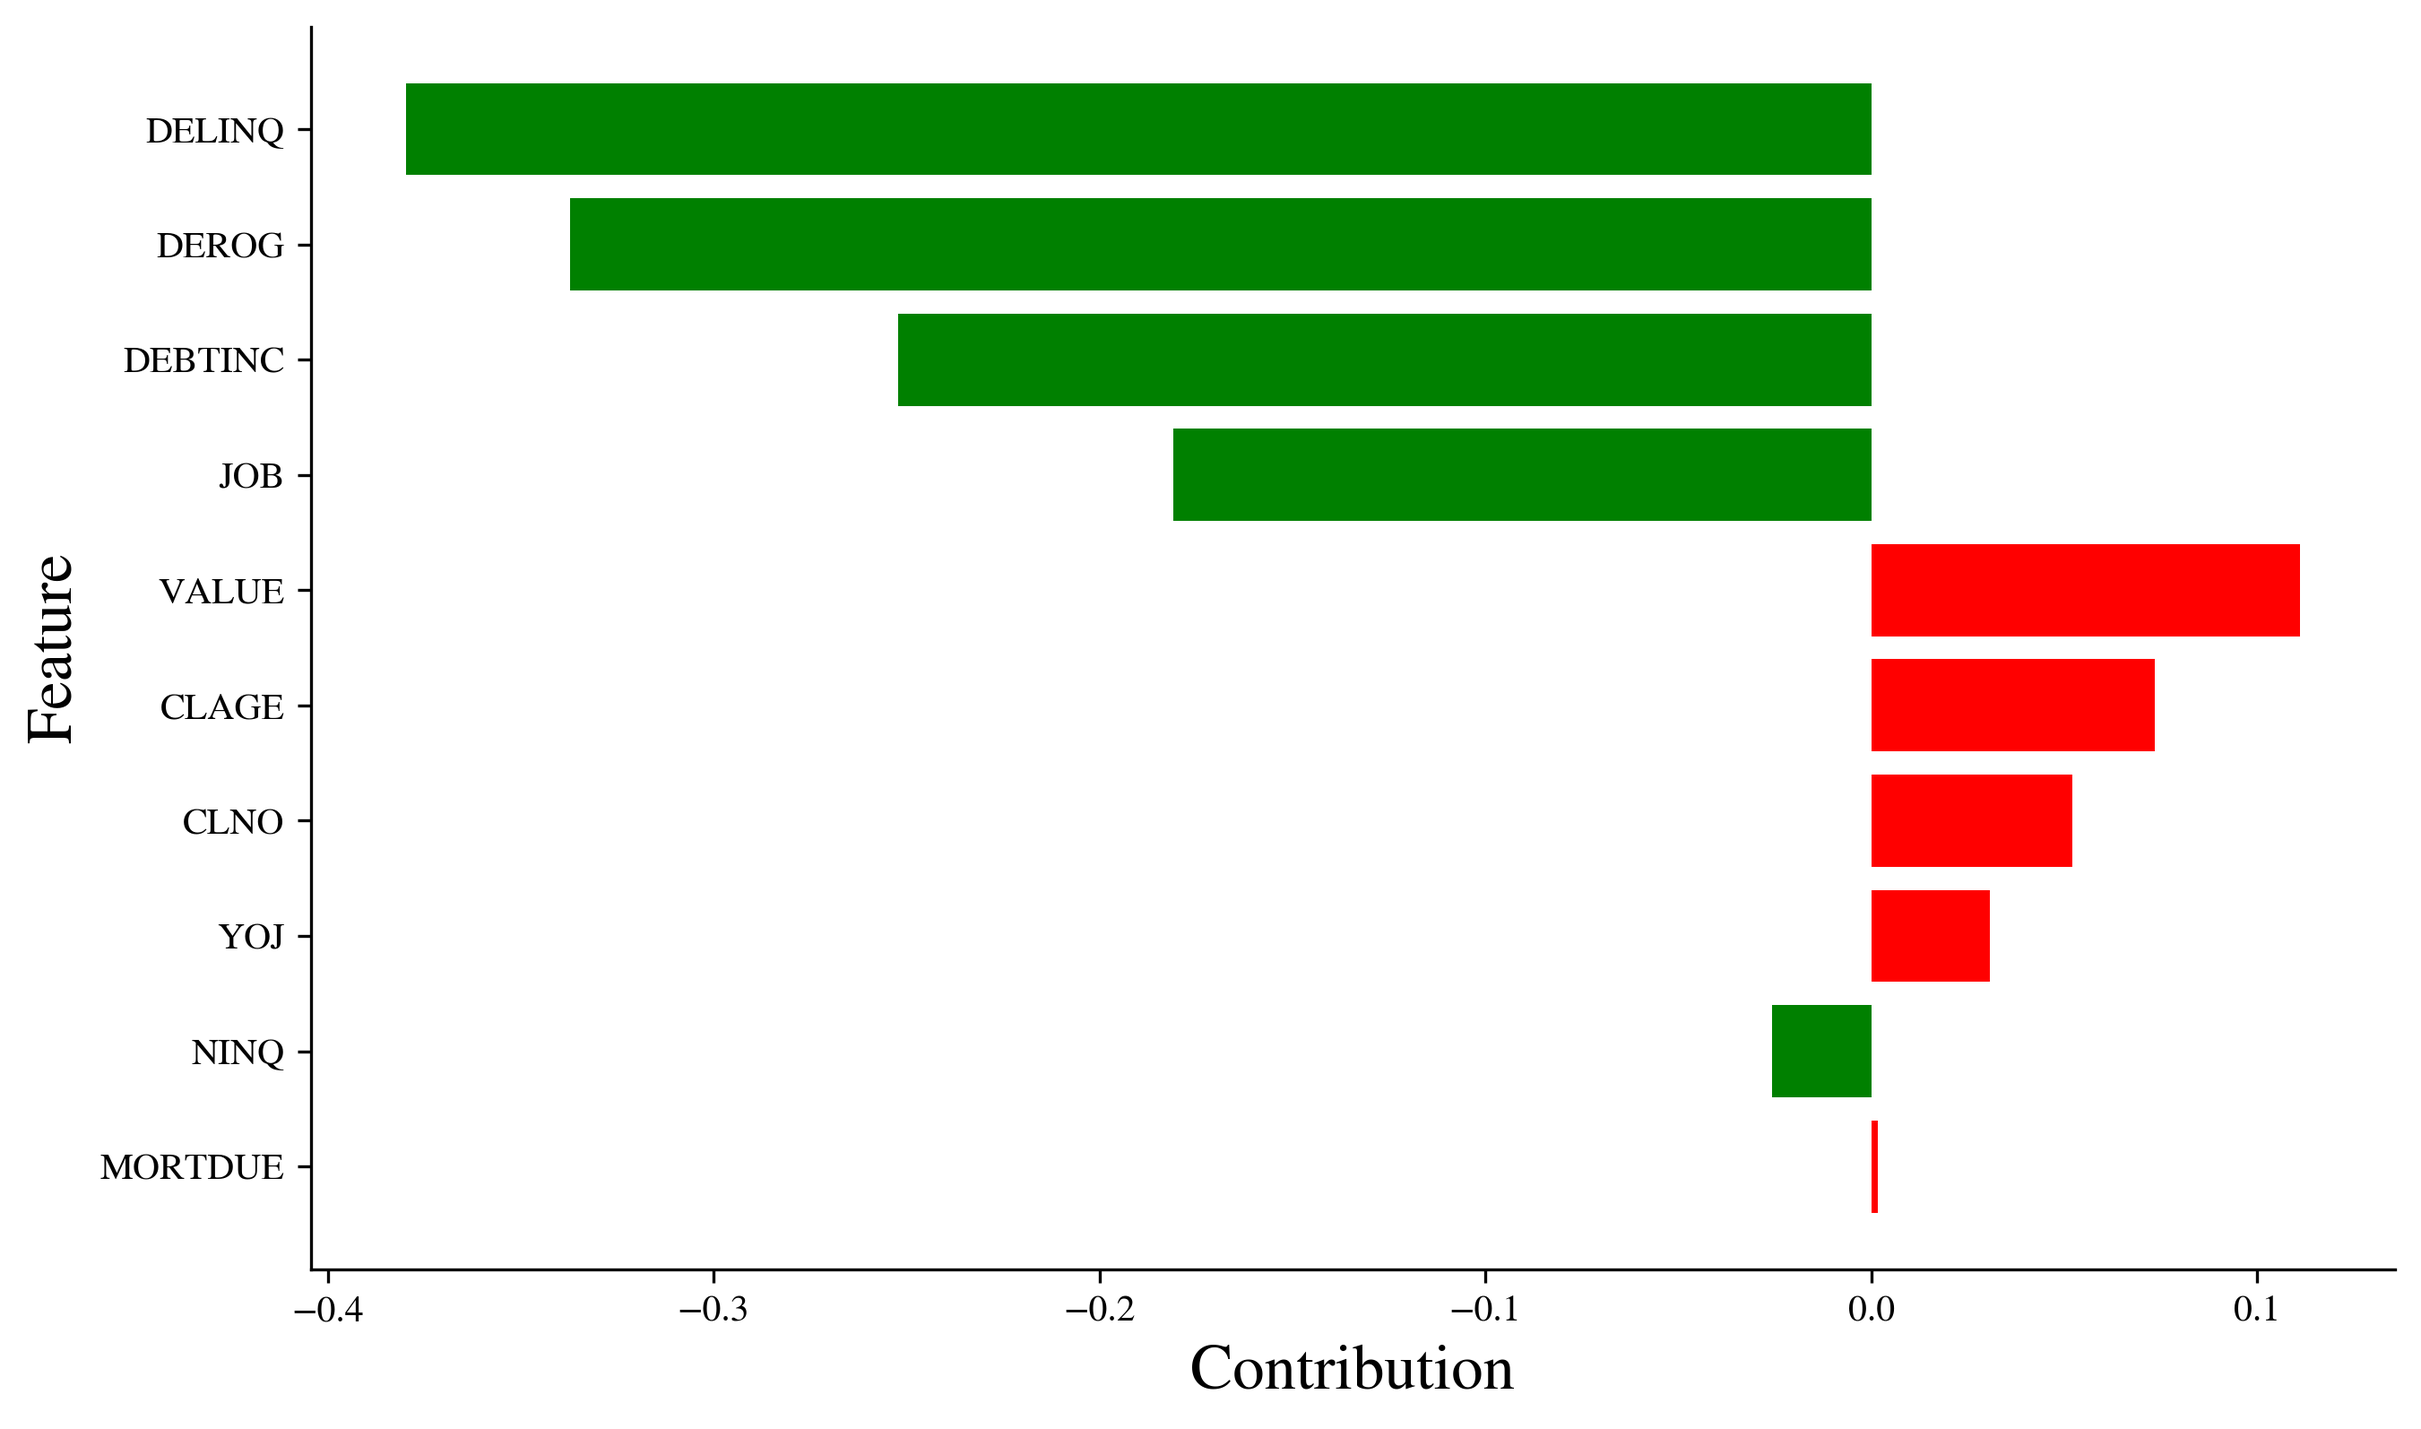
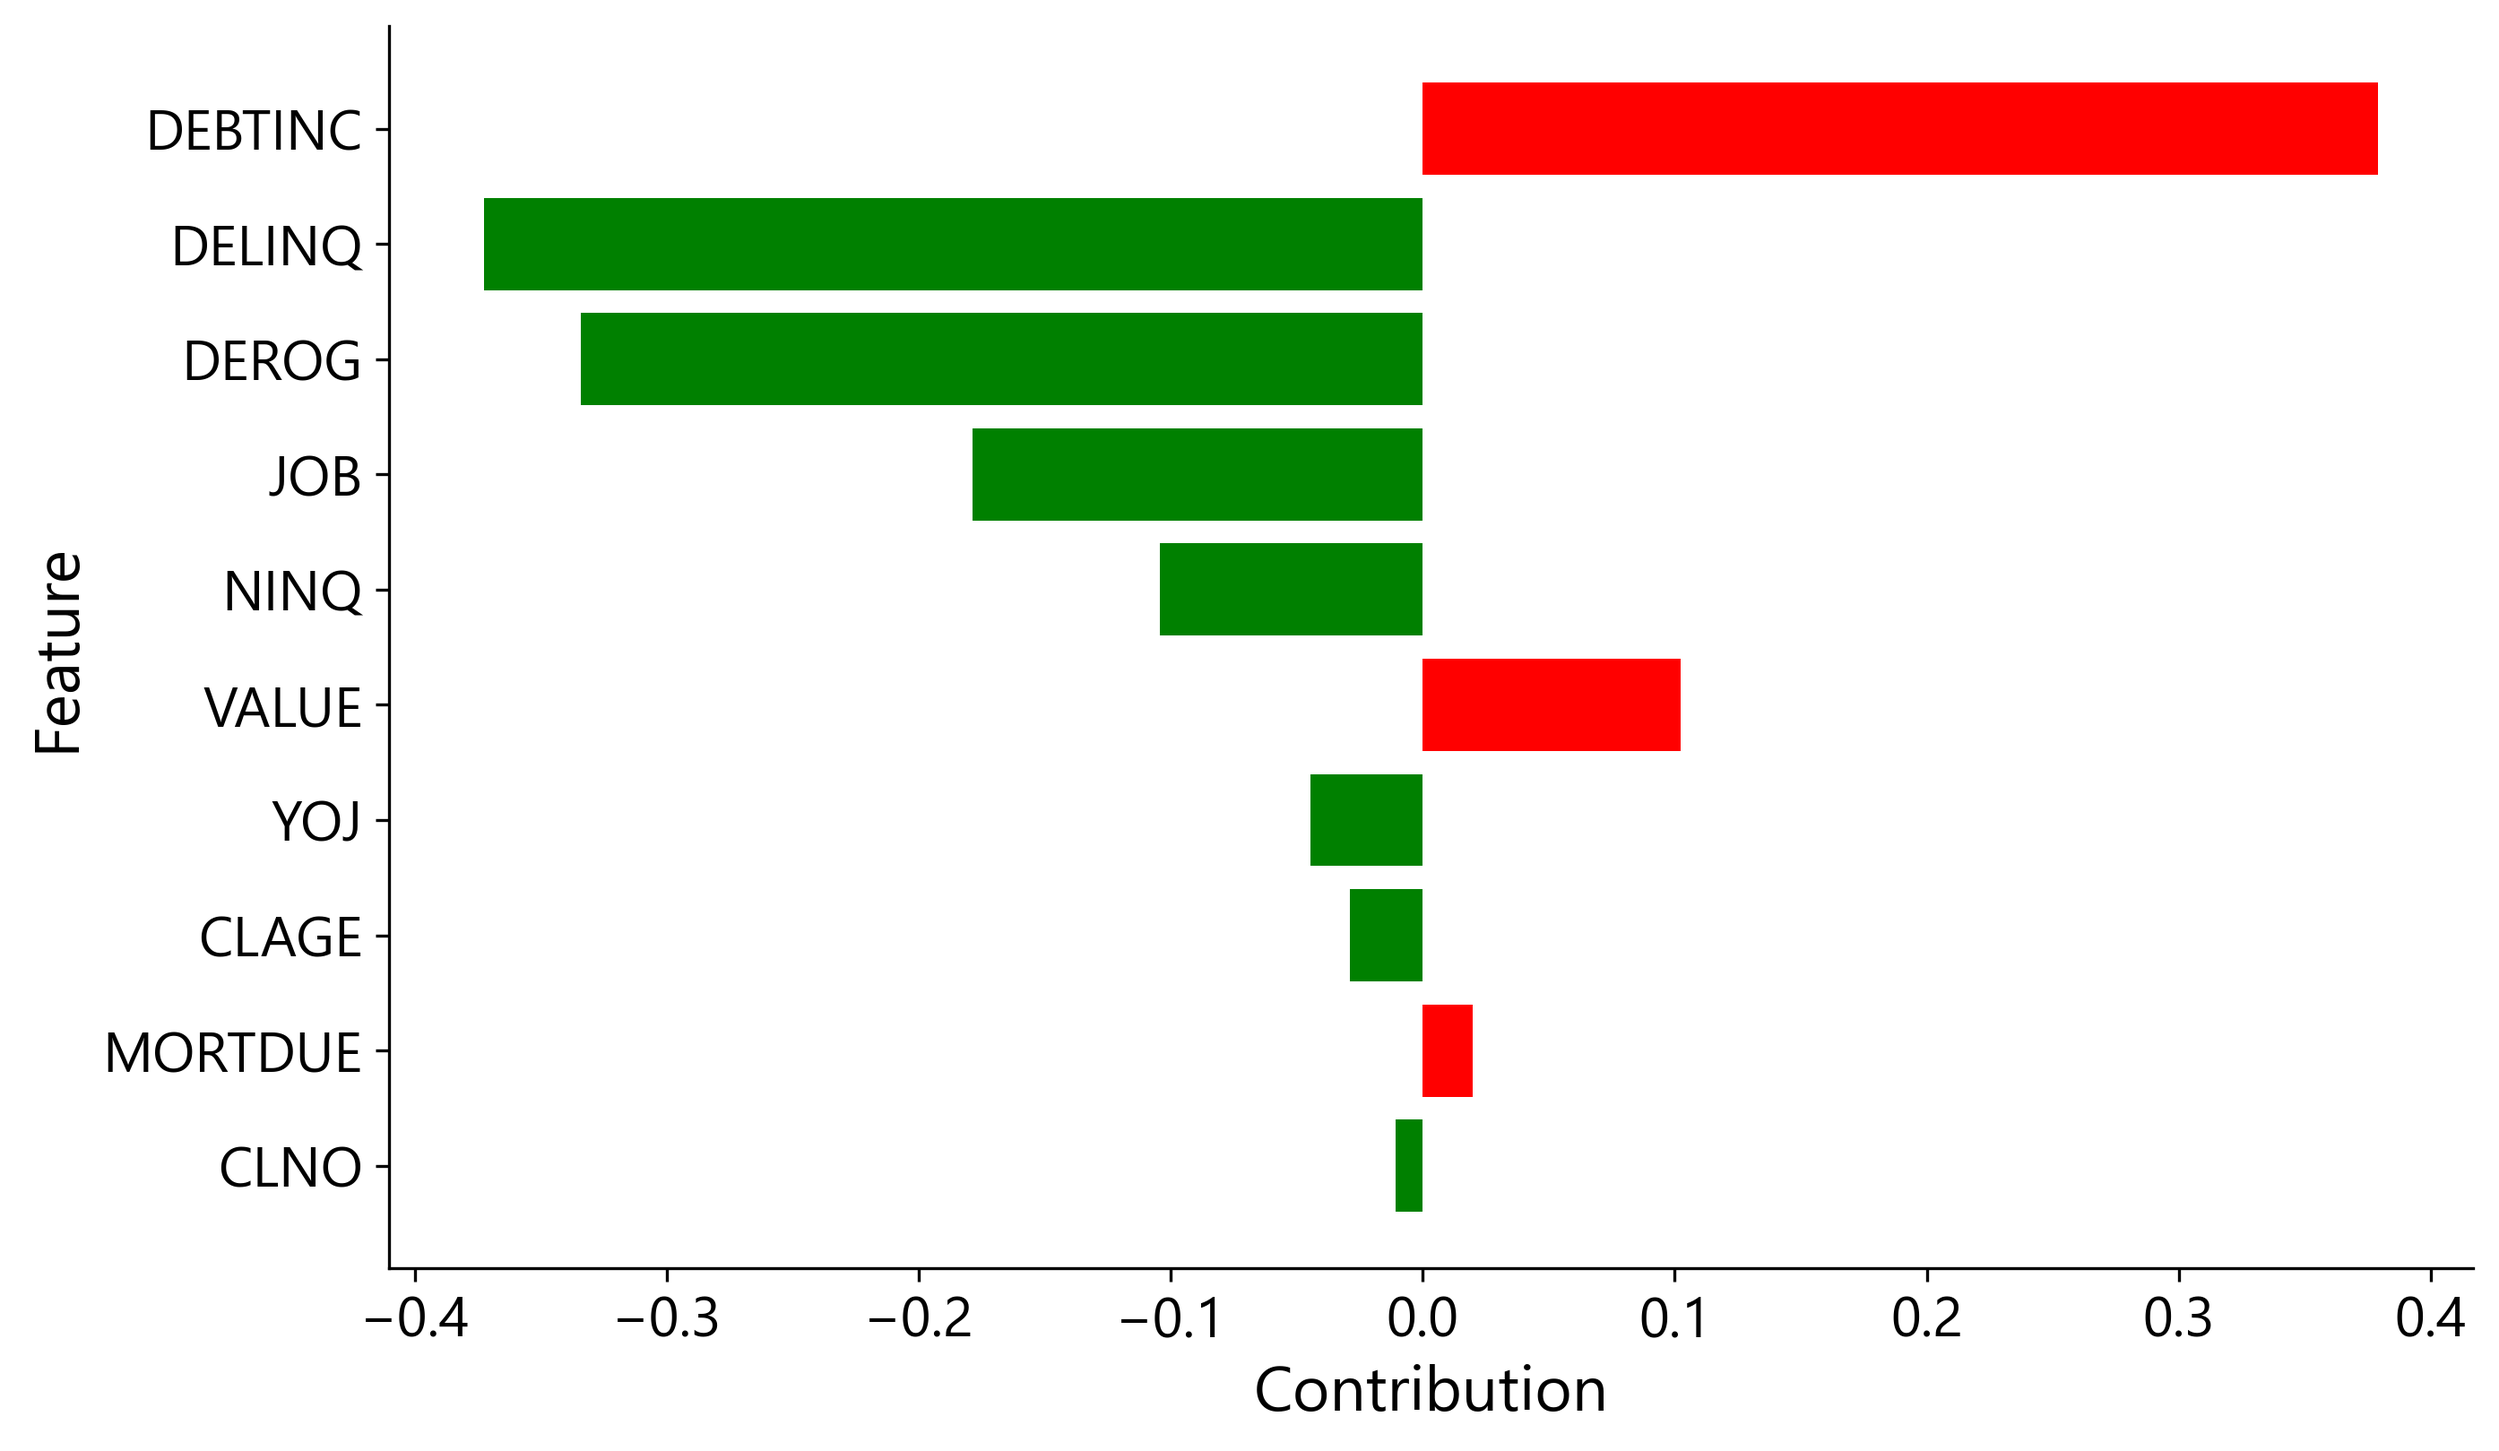
update

diff --git a/flask_app/templates/index.html b/flask_app/templates/index.html
@@ -1,8 +1,9 @@
+<!DOCTYPE html>
 <html>
   <head>
     <style>
       body {
-        font-family: Arial, sans-serif;
+        font-family: 'Segoe UI', Tahoma, Geneva, Verdana, sans-serif;
         background-color: #f5f5f5;
         color: #333;
       }
@@ -11,18 +12,25 @@
         padding: 20px;
         background-color: #fff;
         border: 2px solid #ccc;
-        box-shadow: 1 0 10px #ccc;
+        box-shadow: 1px 0 10px #ccc;
         max-width: 600px;
       }
       h1 {
         text-align: center;
+        color: #4c4c4c;
+      }
+
+      p {
+        text-align: center;
+        color: #6c6c6c;
       }
 
       label {
         display: block;
-		margin-top: 5px;
+        margin-top: 5px;
         margin-bottom: 10px;
-      } 
+        color: #4c4c4c;
+      }
 
       input[type="number"],
       select {
@@ -44,16 +52,25 @@
         cursor: pointer;
         margin-top: 20px;
         width: auto;
+        transition: all 0.3s;
+      }
+
+      input[type="submit"]:hover {
+        background-color: #43a047;
+      }
+
+      select:hover,
+      input[type="number"]:hover {
+        border-color: #4CAF50;
       }
     </style>
   </head>
-	<body>
-		<h1 style="text-align: center;">Default Prediction Application</h1>
-		<p style="text-align: center;"><b>Author:</b> Petr Nguyen </p>
-		<form method="POST" action="/predict">
+  <body>
+    <h1>Default Prediction Application</h1>
+    <p><b>Author:</b> Petr Nguyen</p>
+    <form method="POST" action="/predict">
 			{% for variable in variables %}
-				{% if variable in categorical_features %}
-       		     		{% if variable == 'JOB' %}
+       		     	{% if variable == 'JOB' %}
 							<label for="JOB">Job occupancy:</label>
 							<select name="JOB">
 								<option value=""></option>
@@ -64,50 +81,46 @@
       		  					<option value="Self">Self-employed</option>
      		   					<option value="Other">Other</option>
     		  				</select><br>
-						{% elif variable == 'REASON' %}
+					{% elif variable == 'REASON' %}
 							<label for="REASON">Reason of loan application:</label>
 							<select name="REASON">
 								<option value=""></option>
   		      					<option value="DebtCon">Debt Consolidation</option>
       		  					<option value="HomeImp">Home Improvement</option>
       						</select><br>
-						{% endif %}
-     		   		{% elif variable not in categorical_features %}
-						{% if variable == 'LOAN' %}
+					{% elif variable == 'LOAN' %}
 							<label for="LOAN">Requested loan amount:</label>
 							<input type="number" name="LOAN" min=0 required><br>
-						{% elif variable == 'MORTDUE' %}
+					{% elif variable == 'MORTDUE' %}
 							<label for="MORTDUE">Amount due on existing mortgage:</label>
 							<input type="number" name="MORTDUE" min=0><br>
-						{% elif variable =='VALUE' %}
+					{% elif variable =='VALUE' %}
 							<label for="VALUE">Current property value:</label>
 							<input type="number" name="VALUE" min=0><br>
-						{% elif variable == 'YOJ' %}
+					{% elif variable == 'YOJ' %}
 							<label for="YOJ">Number of years at present job:</label>
 							<input type="number" name="YOJ" min=0 step = 0.1><br>
-  						{% elif variable == 'DEROG' %}
+  					{% elif variable == 'DEROG' %}
 							<label for="DEROG">Number of major derogatory reports:</label>
   							<input type="number" name="DEROG" min=0><br>
-						{% elif variable == 'DELINQ' %}
+					{% elif variable == 'DELINQ' %}
      							<label for="DELINQ">Number of delinquent credit lines:</label>
      							<input type="number" name="DELINQ" min=0><br>
-						{% elif variable == 'CLAGE' %}
+					{% elif variable == 'CLAGE' %}
 							<label for="CLAGE">Age of the oldest credit line (in months):</label>
 							<input type="number" name="CLAGE" min=0><br>
-						{% elif variable == 'NINQ' %}
+					{% elif variable == 'NINQ' %}
 							<label for="NINQ">Number of recent credit inquiries:</label>
 							<input type="number" name="NINQ" min=0><br>
-						{% elif variable == 'CLNO' %}
+					{% elif variable == 'CLNO' %}
 							<label for="CLNO">Number of credit lines:</label>
 							<input type="number" name="CLNO" min=0><br>
-						{% elif variable == 'DEBTINC' %}
+					{% elif variable == 'DEBTINC' %}
 		      				<label for="DEBTINC">Debt-to-income ratio:</label>
 							<input type="number" name="DEBTINC" min=0 step = 0.0000001><br>
 						{% endif %}
-        		{% endif %}
     		{% endfor %}
 					<input type="submit" value="Submit">
 		</form>
-		<p style="text-align: center;"> &copy 2023 - Petr Nguyen | Faculty of Finance and Accounting, Prague University of Economics and Business</p>
 	</body>
 </html>

diff --git a/flask_app/templates/results.html b/flask_app/templates/results.html
@@ -3,35 +3,39 @@
   <head>
     <title>Default Prediction - Result</title>
     <style>
-      /* Add some basic styles to make the page look nicer */
       body {
-        font-family: Arial, sans-serif;
+        font-family: 'Segoe UI', Tahoma, Geneva, Verdana, sans-serif;
         background-color: #f5f5f5;
         color: #333;
       }
       h1 {
         text-align: center;
+        color: #4c4c4c;
         font-size: 2.5em;
         margin-top: 50px;
       }
       p {
         text-align: center;
+        color: #6c6c6c;
         font-size: 1.5em;
         margin-top: 50px;
       }
       .box {
-            background-color: #ccc;
-            width: 200px;
-            height: 200px;
-            display: flex;
-            justify-content: center;
-            align-items: center;
-            font-size: 24px;
-            font-weight: bold;
-            text-align: center;
-            text-decoration: none;
-            color: #333;
-        }
+        background-color: #ccc;
+        width: 200px;
+        height: 200px;
+        display: flex;
+        justify-content: center;
+        align-items: center;
+        font-size: 24px;
+        font-weight: bold;
+        text-align: center;
+        text-decoration: none;
+        color: #333;
+      }
+      img {
+        max-width: 100%;
+      }
     </style>
   </head>
   <body>
@@ -40,8 +44,5 @@
     <p>The probability of default is <b>{{ prediction }}%</b></p>
 
     <img src="{{ url_for('static', filename='lime_explanation.png') }}" alt="LIME Explanation" width="50%" style="display: block; margin: auto;">
-
-
-    
   </body>
 </html>

diff --git a/flask_app/app.py b/flask_app/app.py
@@ -41,8 +41,7 @@ def lime_plot(input, model):
 
         return fig
     
-    matplotlib.rcParams['mathtext.fontset'] = 'stix'
-    matplotlib.rcParams['font.family'] = 'STIXGeneral'
+    plt.rcParams['font.family'] = 'Segoe UI'
     
     exp = lime_explainer.explain_instance(
                                         data_row = input,
@@ -57,6 +56,8 @@ def lime_plot(input, model):
     ax.spines['top'].set_visible(False)
     ax.set_ylabel('Feature', fontsize = 17)
     ax.set_xlabel('Contribution', fontsize = 17)
+    ax.tick_params(axis='x', labelsize=15)  # Set xticks fontsize
+    ax.tick_params(axis='y', labelsize=15)
     plt.title('')
 
     fig.savefig(os.path.join(current_dir, 'static', 'lime_explanation.png'),
@@ -77,7 +78,7 @@ def predict():
 
     for feature in input_df.columns:
         if feature in final_features:
-            if feature in ['REASON', 'JOB']:
+            if feature in categorical_features:
                 input_df.loc[0, feature] = str(request.form[feature]) if request.form[feature] else np.nan
             elif feature == 'LOAN':
                 input_df.loc[0, feature] = int(request.form[feature]) if request.form[feature] else np.nan
